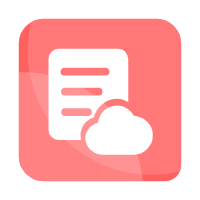
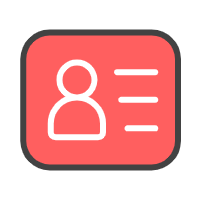
asso update

diff --git a/miniprogram/pages/association/matchData/matchData.js b/miniprogram/pages/association/matchData/matchData.js
@@ -7,7 +7,8 @@ Page({
    * 页面的初始数据
    */
   data: {
-
+    array: ['1', '2'],
+    index: 0
   },
 
   /**
@@ -16,11 +17,7 @@ Page({
   onLoad: function (options) {
     let args = wx.getStorageSync('args')
     count = args.username
-    db.collection("assoMatchPush").where({ index: count }).get().then(res => {
-      this.setData({
-        contetn: res.data
-      })
-    })
+    this.getMatch(count, 0)
   },
   // 跳转
   godetail(e) {
@@ -29,6 +26,39 @@ Page({
     wx.navigateTo({
       url: `/pages/association/matchDataDetail/matchDataDetail?content=${content}`,
     })
+  },
+  // 获取赛事信息
+  getMatch(count, index) {
+    wx.showLoading({
+      title: "查询中",
+      mask: true,
+      success: (result) => {
+        db.collection("associtaionMath").where({ count: count }).get().then(res => {
+          let arr = []
+          for (let i = 0; i < res.data.length; i++) {
+            arr.push(res.data[i].senderMess.title)
+          }
+          let match_id = res.data[index]._id
+          this.setData({
+            array: arr,
+            match_id: match_id
+          })
+          db.collection("assoMatchPush").where({ match_id }).get().then(res => {
+            this.setData({
+              contetn: res.data
+            })
+            wx.hideLoading();
+          })
+        })
+      },
+    });
+  },
+  bindPickerChange(e) {
+    let index = e.detail.value
+    this.setData({
+      index
+    })
+    this.getMatch(count, index)
   },
   /**
    * 生命周期函数--监听页面初次渲染完成
@@ -69,7 +99,55 @@ Page({
    * 页面上拉触底事件的处理函数
    */
   onReachBottom: function () {
+    this.getMore()
+  },
+  // 触底加载更多数据
+  getMore() {
+    let len = this.data.content.length
+    // let content=this.data.content
+    if (len < 20) {
+      wx.showToast({
+        title: '没有更多啦~',
+        icon: 'none',
+        image: '',
+        duration: 1500,
+        mask: false,
+        success: (result) => {
 
+        },
+      });
+    }
+    else {
+      db.collection("assoMatchPush").where({ count, match_id: this.data.match_id }).skip(len).get().then(res => {
+        if (!res.data) {
+          wx.showToast({
+            title: '没有更多啦~',
+            icon: 'none',
+            image: '',
+            duration: 1500,
+            mask: false,
+            success: (result) => {
+              wx.showToast({
+                title: '加载完成',
+                icon: 'none',
+                image: '',
+                duration: 1500,
+                mask: false,
+                success: (result) => {
+
+                },
+              });
+            },
+          });
+        }
+        else {
+          this.data.content.push(...res.data)
+          this.setData({
+            content: this.data.content
+          })
+        }
+      })
+    }
   },
 
   /**

diff --git a/miniprogram/pages/association/match_detail/match_detail.less b/miniprogram/pages/association/match_detail/match_detail.less
@@ -3,16 +3,47 @@ page {
 }
 
 .wrap {
-    .img {
-        background-color: rgba(241, 229, 201, 0.26);
-        text-align      : center;
+    .top_wrap {
+        border-radius   : 24rpx;
+        padding         : 24rpx;
+        background-color: white;
+        margin          : 24rpx;
 
-        image {
-            padding: 96rpx;
-            width  : 90rpx;
-            height : 90rpx;
+        .img {
+            background-color: rgba(241, 229, 201, 0.26);
+            ;
+            text-align     : center;
+            justify-content: center;
+            align-content  : center;
+
+            image {
+                padding: 96rpx;
+                width  : 90rpx;
+                height : 90rpx;
+            }
+        }
+
+        .title {
+            text-align: center;
+            padding   : 12rpx;
+            font-size : 28rpx;
+            font-weight: 700;
         }
     }
+    // .img {
+    //     background-color: rgba(241, 229, 201, 0.26);
+    //     text-align: center;
+    //     border-radius   : 24rpx;
+    //     padding         : 24rpx;
+    //     // background-color: white;
+    //     margin          : 24rpx;
+       
+    //     image {
+    //         padding: 96rpx;
+    //         width  : 90rpx;
+    //         height : 90rpx;
+    //     }
+    // }
 
     .content_wrap {
         padding         : 24rpx;

diff --git a/miniprogram/pages/association/matchData/matchData.less b/miniprogram/pages/association/matchData/matchData.less
@@ -1,25 +1,44 @@
-.wrap{
+page {
+    background-color: rgb(241, 241, 241);
+}
+
+.top_wrap {
+    font-size       : 32rpx;
+    text-align      : right;
+    padding: 6rpx;
+    color           : #779de6;
+    background-color: #779ee621;
+    border-radius: 8rpx;
+
+    .picker {}
+}
+
+.wrap {
     font-size: 32rpx;
-    .caption{
+
+    .caption {
         text-align: center;
     }
-    .item_wrap{
-        .content_wrap{
-            display: flex;
-            flex-direction: row;
+
+    .item_wrap {
+        .content_wrap {
+            display         : flex;
+            flex-direction  : row;
             background-color: white;
-            padding: 12rpx;
-            margin: 12rpx;
-            border-radius: 12rpx;
-            .from{
+            padding         : 12rpx;
+            margin          : 12rpx;
+            border-radius   : 12rpx;
+
+            .from {
                 flex: 3;
             }
-            .status{
-                flex: 1;
+
+            .status {
+                flex    : 1;
                 // color: rgb(179, 128, 62);
                 // color: blue;
             }
         }
-        
+
     }
 }

diff --git a/miniprogram/pages/more/pages/Match/Match.js b/miniprogram/pages/more/pages/Match/Match.js
@@ -51,7 +51,7 @@ Page({
     let args = wx.getStorageSync('args');
     count = args.username
     // 比赛状态
-    this.judgeMatch(count, content._id)
+    this.judgeMatch(count, content.match_id)
     //查询点击状态
     wx.cloud.callFunction({
       name: "associationSend",
@@ -207,8 +207,9 @@ Page({
                   assoName: data.content.assoMess.association,
                   assoCount: data.content.assoMess.card,
                   pusherCount: count,
-                  match_id: data.content._id,
-                  index: data.content.assoMess.card
+                  CampusCircle_id: data.content._id,
+                  index: data.content.assoMess.card,
+                  match_id: data.content.match_id
                 }
               }).then(res => {
                 console.log(res);

diff --git a/miniprogram/pages/more/components/waterFlowCards/components/match/match.js b/miniprogram/pages/more/components/waterFlowCards/components/match/match.js
@@ -64,13 +64,14 @@ Component({
       // this.setData({
       // })
       let content = {
-        _id:this.data.item._id,
+        _id: this.data.item._id,
         assoMess: this.data.item.assoMess,
         Title: this.data.item.Title,
         Text: this.data.item.Text,
         borderArr: this.data.item.borderArr,
         question: this.data.item.question,
-        date:this.data.item.date
+        date: this.data.item.date,
+        match_id: this.data.item.match_id
       }
       let jsonStr = JSON.stringify(content);
       // 对数据进行URI编码，防止数据被截断。少量数据没问题，如果对象较大则容易被截断，获取不到完整数据

diff --git a/miniprogram/pages/association/association.js b/miniprogram/pages/association/association.js
@@ -62,22 +62,22 @@ Page({
     ],
     data_list: [
       {
-        img: "img/freshman.png",
+        img: "img/freshman_data.png",
         name: "招新数据",
         tap: "goFreshmanData"
       },
       {
-        img: "img/match.png",
+        img: "img/match_data.png",
         name: "赛事反馈",
         tap: "goMatchData"
       },
       {
-        img: "img/delete.png",
+        img: "img/more.png",
         name: "推广数据",
         tap: "loading"
       },
       {
-        img: "img/delete.png",
+        img: "img/more.png",
         name: "创作中心",
         tap: "loading"
       },

diff --git a/cloudfunctions/associationSend/index.js b/cloudfunctions/associationSend/index.js
@@ -72,6 +72,7 @@ exports.main = async (event, context) => {
         borderArr: event.borderArr,
         date: event.date,
         personArr: [],
+        match_id: event.match_id
       }
     })
   }
@@ -104,8 +105,9 @@ exports.main = async (event, context) => {
         assoName: event.assoName,
         assoCount: event.assoCount,
         pusherCount: event.pusherCount,
-        match_id: event.match_id,
+        CampusCircle_id: event.match_id,
         index: event.index,
+        match_id: event.match_id,
         read: false
       }
     })

diff --git a/miniprogram/pages/association/match/match.js b/miniprogram/pages/association/match/match.js
@@ -114,7 +114,8 @@ Page({
                 question: item.question,
                 assoMess: item.assoMess,
                 borderArr: item.borderArr,
-                date:item.date
+                date:item.date,
+                match_id:id
                 // Label:
               }
             }).then(res => {

diff --git a/miniprogram/pages/more/pages/Freshman/Freshman.less b/miniprogram/pages/more/pages/Freshman/Freshman.less
@@ -19,7 +19,7 @@ page{
         padding: 16rpx;
         border-radius: 24rpx;
         font-size: 32rpx;
-        color: rgba(49, 80, 255, 0.856);
+        color: #63A1A0;
     }
     .mess_wrap{
         padding: 24rpx;

diff --git a/miniprogram/pages/association/match_detail/match_detail.js b/miniprogram/pages/association/match_detail/match_detail.js
@@ -62,6 +62,10 @@ Page({
       })
     })
   },
+  // 修改海报
+  changeImg(){
+    this.addImg()
+  },
   // 时间选择
   bindDateChange(e) {
     this.setData({
